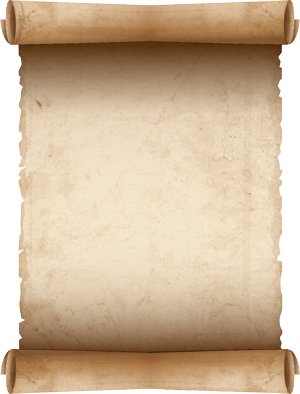
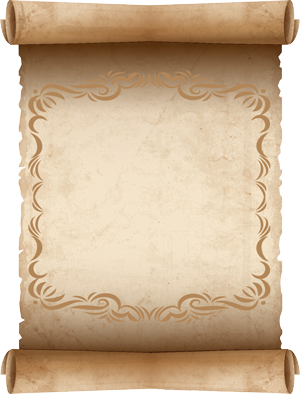
added scroll frame and changed scroll text CSS to top: 28%

Changed region(s): [[0.09, 0.1827, 0.9, 0.8223]]

diff --git a/index.html b/index.html
@@ -192,25 +192,25 @@
       <h2>Wholesome Ingredients</h2>
       <div class="row">
 
-        <div class="ingredientBox col-md-3 col-sm-6">
+        <div class="ingredientBox col-md-3 col-sm-6 col-xs-12">
           <img class="img-responsive center-block" src="images/scroll300x394.png" alt="Icon">
           <!-- <!-- <h3>Exotic Pets</h3> -->
           <p><span class="baskervilleItalic">No</span><br>deceitful<br>additives.</p> 
         </div>
 
-        <div class="ingredientBox col-md-3 col-sm-6">
+        <div class="ingredientBox col-md-3 col-sm-6 col-xs-12">
           <img class="img-responsive center-block" src="images/scroll300x394.png" alt="Icon">
           <!-- <h3>Grooming</h3> -->
           <p><span class="baskervilleItalic">No</span><br>colors not<br>of this Earth.</p>
         </div>
 
-        <div class="ingredientBox col-md-3 col-sm-6">
+        <div class="ingredientBox col-md-3 col-sm-6 col-xs-12">
           <img class="img-responsive center-block" src="images/scroll300x394.png" alt="Icon">
           <!-- <h3>GeneralHealth</h3> -->
           <p><span class="baskervilleItalic">No</span><br>unholy<br>preservatives.</p>
         </div>
 
-        <div class="ingredientBox col-md-3 col-sm-6">
+        <div class="ingredientBox col-md-3 col-sm-6 col-xs-12">
           <img class="img-responsive center-block" src="images/scroll300x394.png" alt="Icon">
           <!-- <h3>GeneralHealth</h3> -->
           <p><span class="baskervilleItalic">No</span><br>evil.</p>

diff --git a/css/style.css b/css/style.css
@@ -313,16 +313,11 @@ and (max-width: 768px) {
   margin-bottom: 30px;
 }
 
-
-.scrollWriting {
-  
-}
-
 .ingredientBox p {
   font-size: 1.1em;
   font-weight: 400;
   position: absolute;
-  top: 25%;
+  top: 28%;
   left: 45%;
   margin-left: -20%;
 
